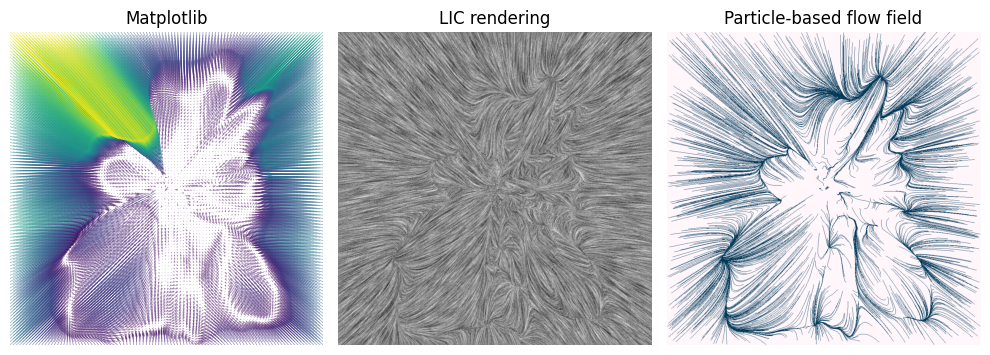
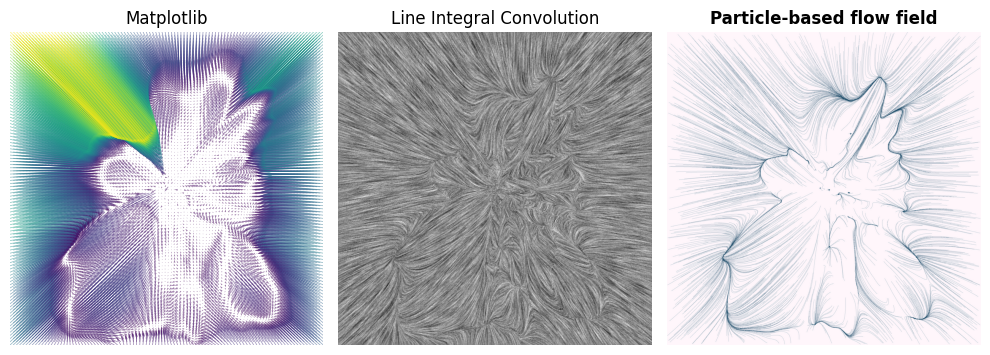
pass to uv

Changed region(s): [[0.6667, 0.031, 1.0, 0.9606], [0.3939, 0.031, 0.6061, 0.093]]

diff --git a/README.md b/README.md
@@ -1,6 +1,6 @@
 # 𖦹 vfield
 
-A simple Python library for creating eye-pleasing flow field visualizations from vector field data.
+A simple Python library for creating eye-pleasing **particle-based flow field** visualizations from vector field data.
 
 ![gen](./teaser.png)
 
@@ -12,7 +12,7 @@ A simple Python library for creating eye-pleasing flow field visualizations from
 
 🎯 Full control over particle count, step count, and step size
 
-🧈 Smooth rendering with built-in antialiasing
+🖌 Smooth rendering with built-in antialiasing
 
 🎨 Custom color schemes to match your aesthetic
 
